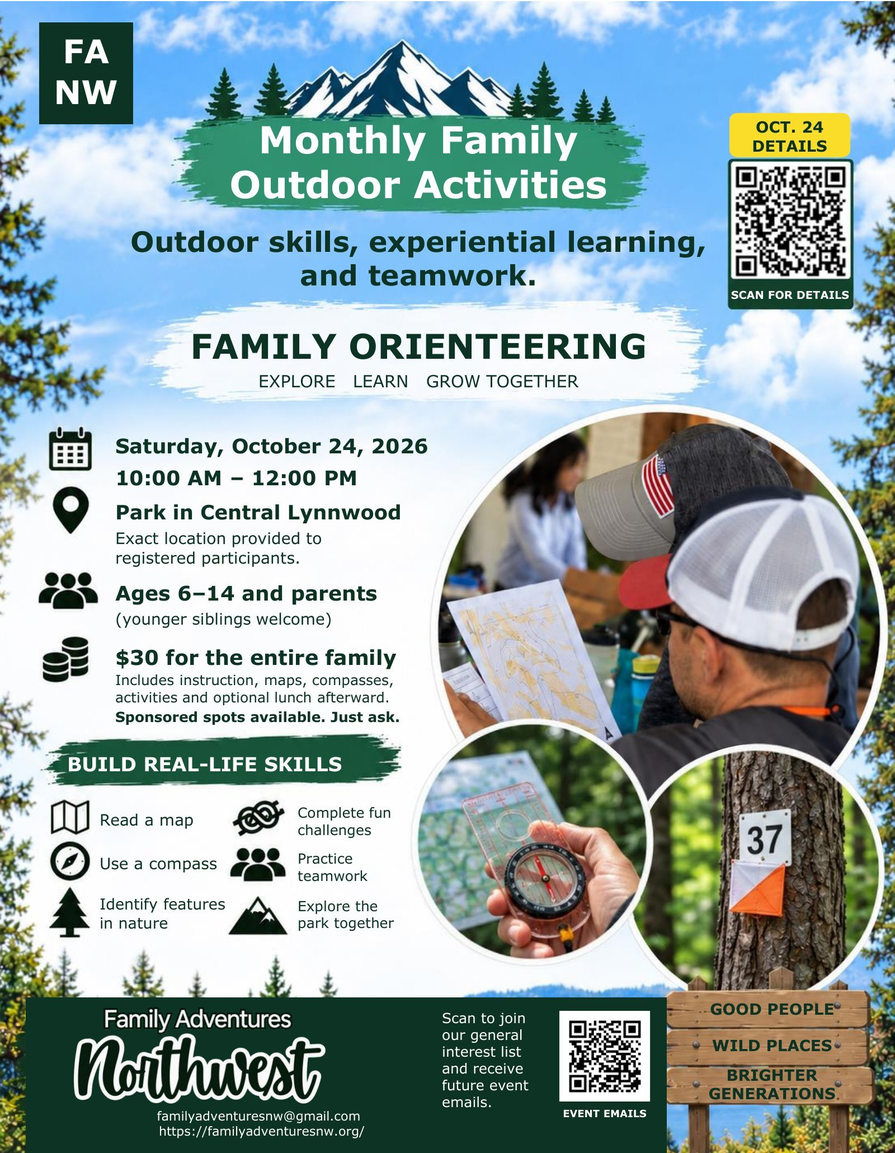
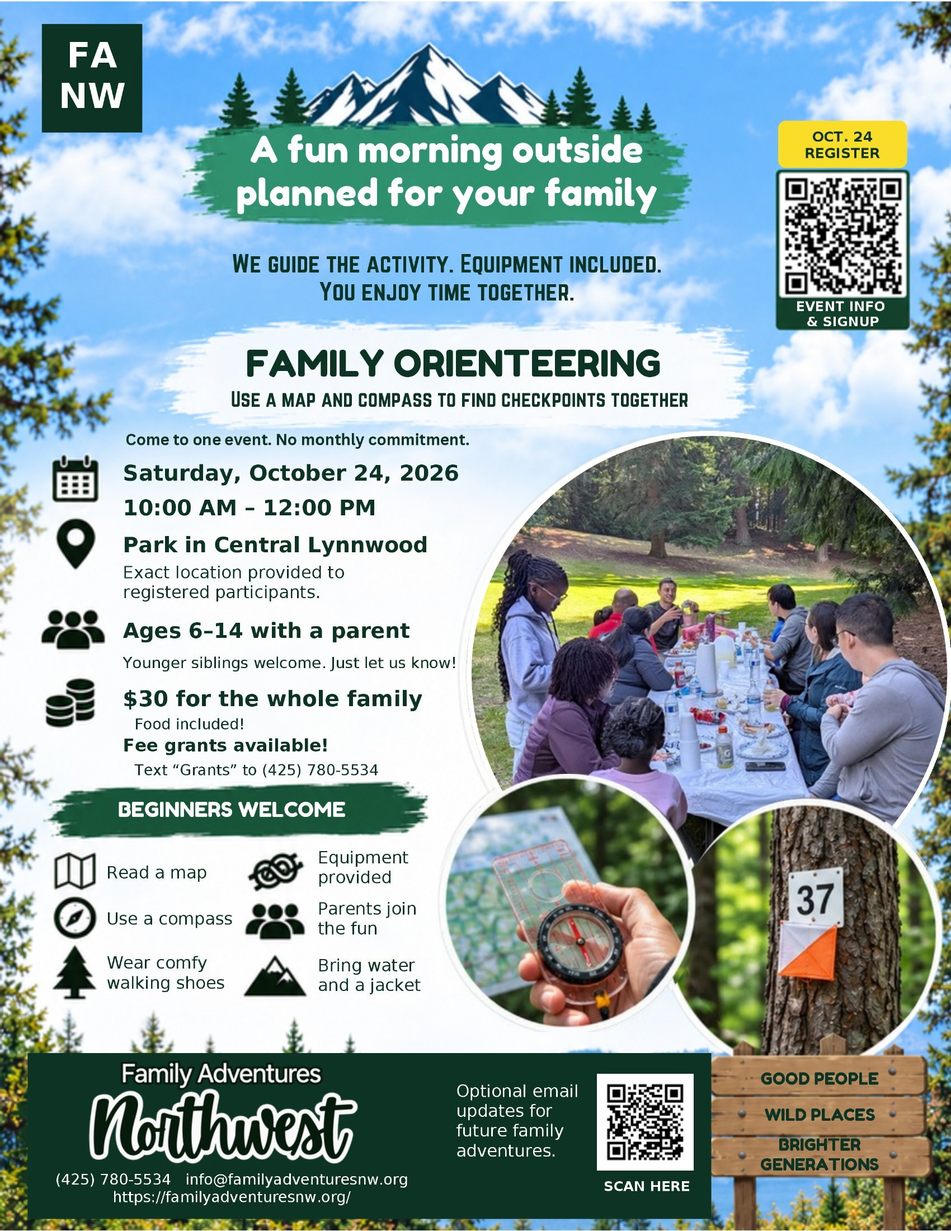
Update October orienteering flyer
Also record in CLAUDE.md that flyers are published as provided,
including the phone number.

Claude-Session: https://claude.ai/code/session_012q6njePzGd2QigLpU3kC6f

diff --git a/website/src/content/events.ts b/website/src/content/events.ts
@@ -40,7 +40,7 @@ export const events: FamilyEvent[] = [
       "A park offers so much more if you look at it from an \"adventure\" perspective! Spend a morning learning how to do adventure family orienteering! Appropriate for ages 6–14 and parents. Includes instruction, maps, compasses, activities and optional lunch afterward. Build real-life skills like reading a map, using a compass, identifying natural features, practicing teamwork, and exploring a park together while completing fun challenges!",
     flyer: "images/events/family-orienteering/flyer.jpg",
     flyerAlt:
-      "Flyer for Family Orienteering — explore, learn, grow together. Saturday, October 24, 2026, 10:00 AM to 12:00 PM, at a park in central Lynnwood; exact location provided to registered participants. Ages 6–14 and parents, younger siblings welcome. $30 for the entire family, including instruction, maps, compasses, activities and optional lunch afterward. Sponsored spots available. Build real-life skills: read a map, use a compass, identify features in nature, complete fun challenges, practice teamwork, and explore the park together.",
+      "Flyer for Family Orienteering: a fun morning outside planned for your family. We guide the activity, equipment included, you enjoy time together. Use a map and compass to find checkpoints together. Come to one adventure, no monthly commitment. Saturday, October 24, 2026, 10:00 AM to 12:00 PM, at a park in central Lynnwood; exact location provided to registered participants. Ages 6–14 with a parent; younger siblings welcome. $30 for the whole family, food included. Fee grants available: text Grants to (425) 780-5534. Beginners welcome: read a map, use a compass, wear comfy walking shoes, equipment provided, parents join the fun, bring water and a jacket.",
     rsvpUrl: "https://pci.jotform.com/form/262596721046158",
     faq: [
       {

diff --git a/CLAUDE.md b/CLAUDE.md
@@ -10,9 +10,11 @@ See `README.md` for build and deployment settings.
   scrolling, tap targets at least 44px, readable text, and nothing that only works on hover.
 - **We run "adventures", not "events".** Use "adventure(s)" in all visitor-facing text.
 - **Contact email:** `info@familyadventuresnw.org` (set once in `website/src/content/site.ts`).
-- **Never publish** the phone number or the exact location of an upcoming adventure.
-  Upcoming adventures list only a general area (e.g. "Park in Central Lynnwood"); the exact
-  location goes to registered families via the RSVP form.
+- **Never publish the exact location of an upcoming adventure.** Upcoming adventures list only
+  a general area (e.g. "Park in Central Lynnwood"); the exact location goes to registered
+  families via the RSVP form.
+- **Flyers are published as provided.** The phone number printed on a flyer is fine to show;
+  don't edit flyer images unless asked. Don't add the phone number to page text unless asked.
 - **Production branch is `master`.** Do not merge or push to `master` without the owner's
   explicit approval.
 
